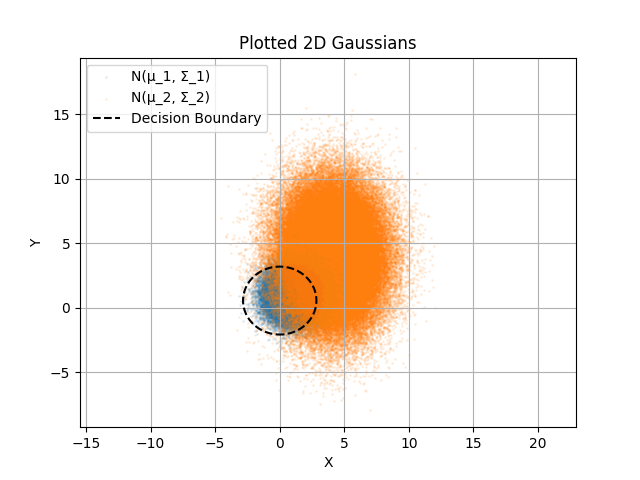
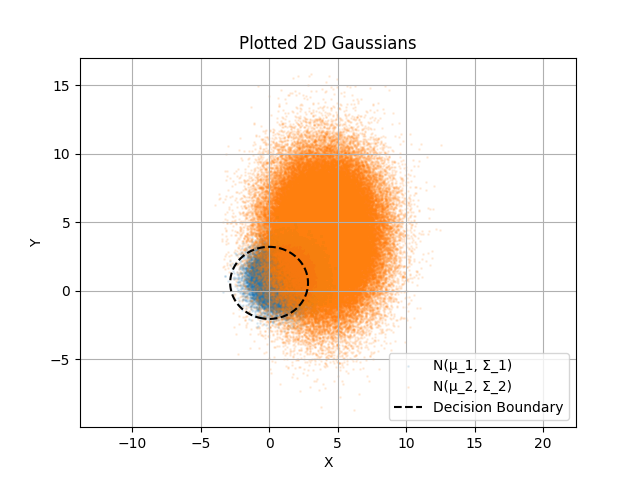
expr 3 and 4 done

diff --git a/experiment_3.py b/experiment_3.py
@@ -1,0 +1,85 @@
+import pathlib
+
+import numpy as np
+
+from bayes import bhattacharyya_error_bound_case_three, discriminate_euclidean
+from generate_normals import generate_2d_gas_data, plot_2d_gas
+
+if __name__ == "__main__":
+    fig_dir = pathlib.Path("attachments")
+
+    # Class 1
+    num_class1 = 60000
+    mean_class1 = np.array([1, 1])
+    cov1 = np.array([[1.0, 0.0], [0.0, 1.0]])
+    labels1 = np.full(num_class1, 1)
+
+    # Class 2
+    num_class2 = 140000
+    mean_class2 = np.array([4, 4])
+    cov2 = np.array([[1.0, 0.0], [0.0, 1.0]])
+    labels2 = np.full(num_class2, 2)
+
+    total = num_class1 + num_class2
+
+    # Calculate priors
+    p1 = num_class1 / total
+    p2 = num_class2 / total
+
+    # Generate out normal points
+    points1 = generate_2d_gas_data(num_class1, mean=mean_class1, covariance=cov1)
+    points2 = generate_2d_gas_data(num_class2, mean=mean_class2, covariance=cov2)
+
+    # Stack our points and labels for distrimination
+    points = np.vstack((points1, points2))
+    labels = np.concatenate((labels1, labels2))
+
+    # Discriminate
+    g1 = discriminate_euclidean(x=points, mean=mean_class1)
+    g2 = discriminate_euclidean(x=points, mean=mean_class2)
+    predictions = np.where(g1 > g2, 1, 2)
+
+    # Class 1 error rate
+    num_errors_class1 = np.sum(predictions[:num_class1] != labels1)
+    error_rate_class1 = num_errors_class1 / num_class1
+    print(f"Class 1 total errors: {num_errors_class1}")
+    print(f"Class 1 error rate: {error_rate_class1 * 100:.2f}%")
+
+    # Class 2 error rate
+    num_errors_class2 = np.sum(predictions[num_class1:] != labels2)
+    error_rate_class2 = num_errors_class2 / num_class2
+    print(f"Class 2 total errors: {num_errors_class2}")
+    print(f"Class 2 error rate: {error_rate_class2 * 100:.2f}%")
+
+    # Overall Error rate
+    num_errors = np.sum(predictions != labels)
+    error_rate = num_errors / total
+    print(f"Total errors: {num_errors}")
+    print(f"Minimum error rate: {error_rate * 100:.2f}%")
+
+    def boundary_func(grid_pts) -> float:  # noqa: ANN001
+        """Boundary function for two discriminate.
+
+        From g_1(x) = g_2(x)
+        """
+        g1_grid = discriminate_euclidean(x=grid_pts, mean=mean_class1)
+        g2_grid = discriminate_euclidean(x=grid_pts, mean=mean_class2)
+        return g1_grid - g2_grid
+
+    # Plot w/ decision boundary
+    plot_2d_gas(
+        points=(points1, points2),
+        decision_fn=boundary_func,
+        fig_path=fig_dir / "experiment3_decision.png",
+    )
+
+    # Calculate upper bound
+    b_error = bhattacharyya_error_bound_case_three(
+        mean1=np.array(mean_class1),
+        mean2=np.array(mean_class2),
+        cov1=cov1,
+        cov2=cov2,
+        p1=p1,
+        p2=p2,
+    )
+    print(f"Error upper bound: {b_error * 100:.2f}%")

diff --git a/experiment_4.py b/experiment_4.py
@@ -1,0 +1,85 @@
+import pathlib
+
+import numpy as np
+
+from bayes import bhattacharyya_error_bound_case_three, discriminate_euclidean
+from generate_normals import generate_2d_gas_data, plot_2d_gas
+
+if __name__ == "__main__":
+    fig_dir = pathlib.Path("attachments")
+
+    # Class 1
+    num_class1 = 60000
+    mean_class1 = np.array([1, 1])
+    cov1 = np.array([[1.0, 0.0], [0.0, 1.0]])
+    labels1 = np.full(num_class1, 1)
+
+    # Class 2
+    num_class2 = 140000
+    mean_class2 = np.array([4, 4])
+    cov2 = np.array([[4.0, 0.0], [0.0, 8.0]])
+    labels2 = np.full(num_class2, 2)
+
+    total = num_class1 + num_class2
+
+    # Calculate priors
+    p1 = num_class1 / total
+    p2 = num_class2 / total
+
+    # Generate out normal points
+    points1 = generate_2d_gas_data(num_class1, mean=mean_class1, covariance=cov1)
+    points2 = generate_2d_gas_data(num_class2, mean=mean_class2, covariance=cov2)
+
+    # Stack our points and labels for distrimination
+    points = np.vstack((points1, points2))
+    labels = np.concatenate((labels1, labels2))
+
+    # Discriminate
+    g1 = discriminate_euclidean(x=points, mean=mean_class1)
+    g2 = discriminate_euclidean(x=points, mean=mean_class2)
+    predictions = np.where(g1 > g2, 1, 2)
+
+    # Class 1 error rate
+    num_errors_class1 = np.sum(predictions[:num_class1] != labels1)
+    error_rate_class1 = num_errors_class1 / num_class1
+    print(f"Class 1 total errors: {num_errors_class1}")
+    print(f"Class 1 error rate: {error_rate_class1 * 100:.2f}%")
+
+    # Class 2 error rate
+    num_errors_class2 = np.sum(predictions[num_class1:] != labels2)
+    error_rate_class2 = num_errors_class2 / num_class2
+    print(f"Class 2 total errors: {num_errors_class2}")
+    print(f"Class 2 error rate: {error_rate_class2 * 100:.2f}%")
+
+    # Overall Error rate
+    num_errors = np.sum(predictions != labels)
+    error_rate = num_errors / total
+    print(f"Total errors: {num_errors}")
+    print(f"Minimum error rate: {error_rate * 100:.2f}%")
+
+    def boundary_func(grid_pts) -> float:  # noqa: ANN001
+        """Boundary function for two discriminate.
+
+        From g_1(x) = g_2(x)
+        """
+        g1_grid = discriminate_euclidean(x=grid_pts, mean=mean_class1)
+        g2_grid = discriminate_euclidean(x=grid_pts, mean=mean_class2)
+        return g1_grid - g2_grid
+
+    # Plot w/ decision boundary
+    plot_2d_gas(
+        points=(points1, points2),
+        decision_fn=boundary_func,
+        fig_path=fig_dir / "experiment4_decision.png",
+    )
+
+    # Calculate upper bound
+    b_error = bhattacharyya_error_bound_case_three(
+        mean1=np.array(mean_class1),
+        mean2=np.array(mean_class2),
+        cov1=cov1,
+        cov2=cov2,
+        p1=p1,
+        p2=p2,
+    )
+    print(f"Error upper bound: {b_error * 100:.2f}%")

diff --git a/bayes.py b/bayes.py
@@ -66,6 +66,15 @@ def discriminate_case_three(*, x: np.ndarray, p: float, mean: np.ndarray, cov: n
     return quadratic_part + linear_part + w_i0
 
 
+def discriminate_euclidean(*, x: np.ndarray, mean: np.ndarray) -> float:
+    """Calculate the discriminate for class c using euclidean distance.
+
+    Formula:
+        g_i(x) = - ||x - µ_i||^2
+    """
+    return -(np.linalg.norm(x - mean, axis=1) ** 2)
+
+
 def bhattacharyya_distance_same_covariance_case_one(
     *,
     mean1: np.ndarray,

diff --git a/results.md b/results.md
@@ -1,9 +1,8 @@
-# Experiment 1
+# Results
 
-Class 1 total errors: 1652
-Class 1 error rate: 2.75%
-Class 2 total errors: 1420
-Class 2 error rate: 1.01%
-Total errors: 3072
-Minimum error rate: 1.54%
-Error upper bound: 4.83%
+| Experiment   | Class 1 total errors | Class 1 error rate | Class 2 total errors | Class 2 error rate | Total errors | Minimum error rate | Error upper bound |
+| ------------ | -------------------: | -----------------: | -------------------: | -----------------: | -----------: | -----------------: | ----------------: |
+| Experiment 1 |                 1652 |              2.75% |                 1420 |              1.01% |         3072 |              1.54% |             4.83% |
+| Experiment 2 |                 5081 |              8.47% |                10188 |              7.28% |        15269 |              7.63% |            16.14% |
+| Experiment 3 |                  985 |              1.64% |                 2374 |              1.70% |         3359 |              1.68% |             4.83% |
+| Experiment 4 |                 1005 |              1.68% |                26808 |             19.15% |        27813 |             13.91% |            16.14% |
